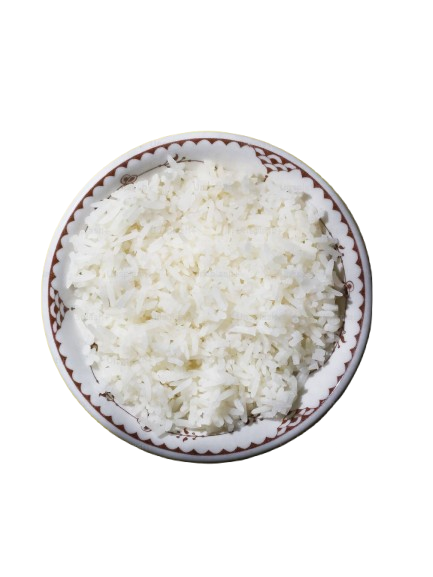
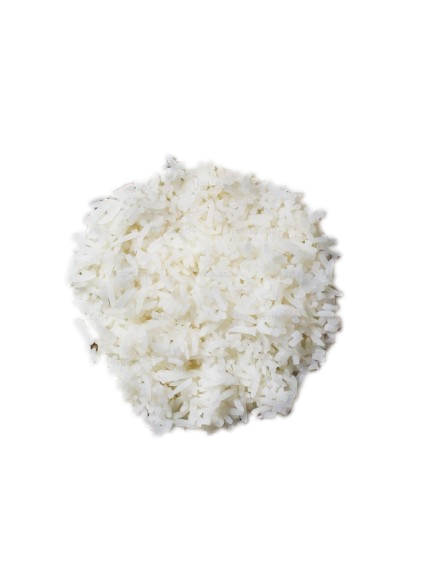
customise screen

Changed region(s): [[0.0901, 0.2184, 0.8707, 0.8111]]

diff --git a/components/customizeThali/ThaliItems.tsx b/components/customizeThali/ThaliItems.tsx
@@ -10,27 +10,27 @@ const thalis = [
   {
     title: 'Rice',
     cost: '10.00',
-    url: 'https://images.unsplash.com/photo-1504674900247-0877df9cc836?q=75&w=2070&auto=format&fit=crop&ixlib=rb-4.0.3&ixid=M3wxMjA3fDB8MHxwaG90by1wYWdlfHx8fGVufDB8fHx8fA%3D%3D',
+    url: 'https://media.gettyimages.com/id/1173266401/photo/rice-cooked-rice-steamed-rice-on-bowl.jpg?s=1024x1024&w=gi&k=20&c=dGvi6TsXkRDS0cKjwmAbt0T7VY-C7V5t683l3xYBmHk=',
   },
   {
     title: 'Dal',
     cost: '8.00',
-    url: 'https://images.unsplash.com/photo-1511690656952-34342bb7c2f2?q=80&w=1964&auto=format&fit=crop&ixlib=rb-4.0.3&ixid=M3wxMjA3fDB8MHxwaG90by1wYWdlfHx8fGVufDB8fHx8fA%3D%3D',
+    url: 'https://media.gettyimages.com/id/95977300/photo/many-lentil-daal.jpg?s=1024x1024&w=gi&k=20&c=DO3z_pUtgRQKl2k8ntev0kR6HlyFwFmphuyZcKGwL50=',
   },
   {
     title: 'Roti',
     cost: '12.00',
-    url: 'https://images.unsplash.com/photo-1600891964599-f61ba0e24092?q=80&w=2070&auto=format&fit=crop&ixlib=rb-4.0.3&ixid=M3wxMjA3fDB8MHxwaG90by1wYWdlfHx8fGVufDB8fHx8fA%3D%3D',
+    url: 'https://media.gettyimages.com/id/1334104847/photo/homemade-indian-roti-or-chapati-indian-bread.jpg?s=1024x1024&w=gi&k=20&c=MN3tdYOYl2avq53Y8hfh_pcQb8fEa1__uXT9faeVznU=',
   },
   {
     title: 'Mix Veg',
     cost: '13.00',
-    url: 'https://images.unsplash.com/photo-1668665771757-4d42737d295a?q=80&w=2080&auto=format&fit=crop&ixlib=rb-4.0.3&ixid=M3wxMjA3fDB8MHxwaG90by1wYWdlfHx8fGVufDB8fHx8fA%3D%3D',
+    url: 'https://i0.wp.com/www.blissofcooking.com/wp-content/uploads/2020/08/Easy-Mix-Vegetables-EOP.jpg?resize=1024%2C683&ssl=1',
   },
   {
     title: 'Panner Butter Masala Thali with Roti', 
     cost: '13.00',
-    url: 'https://images.unsplash.com/photo-1504674900247-0877df9cc836?q=75&w=2070&auto=format&fit=crop&ixlib=rb-4.0.3&ixid=M3wxMjA3fDB8MHxwaG90by1wYWdlfHx8fGVufDB8fHx8fA%3D%3D',
+    url: 'https://imgs.search.brave.com/zokFzOhSiCrW4U9-fYm4dNn-q3dopKq9rigZf63SGOg/rs:fit:860:0:0:0/g:ce/aHR0cHM6Ly90My5m/dGNkbi5uZXQvanBn/LzA3LzY0Lzc3Lzgw/LzM2MF9GXzc2NDc3/ODA3M19TVzNtM1Q3/OTQ0WUtySmtTOVFW/TkxPTmYxUWxzc2Jp/Mi5qcGc',
   },
 ];
 
@@ -38,22 +38,22 @@ const Starters = [
   {
     title: 'Samosa',
     cost: '10.00',
-    url: 'https://images.unsplash.com/photo-1504674900247-0877df9cc836?q=75&w=2070&auto=format&fit=crop&ixlib=rb-4.0.3&ixid=M3wxMjA3fDB8MHxwaG90by1wYWdlfHx8fGVufDB8fHx8fA%3D%3D',
+    url: 'https://media.gettyimages.com/id/1317460663/photo/close-up-of-fried-food-on-table-west-chester-pennsylvania-united-states-usa.jpg?s=1024x1024&w=gi&k=20&c=AySJkJqK__DBkYoBXIhOZlPbS8pWQHhdrIDHMa8a2Zg=',
   },
   {
     title: 'Pakora',
     cost: '8.00',
-    url: 'https://images.unsplash.com/photo-1511690656952-34342bb7c2f2?q=80&w=1964&auto=format&fit=crop&ixlib=rb-4.0.3&ixid=M3wxMjA3fDB8MHxwaG90by1wYWdlfHx8fGVufDB8fHx8fA%3D%3D',
+    url: 'https://media.gettyimages.com/id/2153418999/photo/vegetable-pakoda.webp?s=1024x1024&w=gi&k=20&c=cyJ0pwDYtumrd6kCS33hZCUsEuDMCQiUSszjHI2jEeQ=',
   },
   {
     title: 'Aloo Tikki',
     cost: '12.00',
-    url: 'https://images.unsplash.com/photo-1600891964599-f61ba0e24092?q=80&w=2070&auto=format&fit=crop&ixlib=rb-4.0.3&ixid=M3wxMjA3fDB8MHxwaG90by1wYWdlfHx8fGVufDB8fHx8fA%3D%3D',
+    url: 'https://media.gettyimages.com/id/1334105145/photo/pindi-chole-curry-served-hot-in-a-bowl-with-other-food-items.jpg?s=1024x1024&w=gi&k=20&c=kdkYAkr0zsGghGMFgWm_TBBvgDiJK8IM9x7pK19SHz4=',
   },
   {
     title: 'Paneer Tikka',
     cost: '13.00',
-    url: 'https://images.unsplash.com/photo-1668665771757-4d42737d295a?q=80&w=2080&auto=format&fit=crop&ixlib=rb-4.0.3&ixid=M3wxMjA3fDB8MHxwaG90by1wYWdlfHx8fGVufDB8fHx8fA%3D%3D',
+    url: 'https://media.gettyimages.com/id/1334104009/photo/paneer-tikka-with-mint-chutney-and-onion-rings.jpg?s=1024x1024&w=gi&k=20&c=GF9uV13mTa_170Kr1x6yypoc2ztvTBQsQmev0DZLlis=',
   },
 ];
 
@@ -61,22 +61,22 @@ const Desserts = [
   {
     title: 'Gulab Jamun',
     cost: '10.00',
-    url: 'https://images.unsplash.com/photo-1504674900247-0877df9cc836?q=75&w=2070&auto=format&fit=crop&ixlib=rb-4.0.3&ixid=M3wxMjA3fDB8MHxwaG90by1wYWdlfHx8fGVufDB8fHx8fA%3D%3D',
+    url: 'https://media.gettyimages.com/id/1337213309/photo/gulab-jamun.jpg?s=1024x1024&w=gi&k=20&c=f_SJDl-JzgqVtw9vWLTR9D1oLLL8xVZ2xvonu4sMu6k=',
   },
   {
     title: 'Kheer',
     cost: '8.00',
-    url: 'https://images.unsplash.com/photo-1511690656952-34342bb7c2f2?q=80&w=1964&auto=format&fit=crop&ixlib=rb-4.0.3&ixid=M3wxMjA3fDB8MHxwaG90by1wYWdlfHx8fGVufDB8fHx8fA%3D%3D',
+    url: 'https://media.gettyimages.com/id/1308121408/photo/kheer-indian-rice-pudding-india-dessert-food.jpg?s=1024x1024&w=gi&k=20&c=n6WQ-c7UIunfNDXPJH4CoAihVyjhz0gNrvOXDXqChME=',
   },
   {
     title: 'Ice Cream',
     cost: '12.00',
-    url: 'https://images.unsplash.com/photo-1600891964599-f61ba0e24092?q=80&w=2070&auto=format&fit=crop&ixlib=rb-4.0.3&ixid=M3wxMjA3fDB8MHxwaG90by1wYWdlfHx8fGVufDB8fHx8fA%3D%3D',
+    url: 'https://media.gettyimages.com/id/157472912/photo/ice-cream-composition-on-a-bowl.jpg?s=1024x1024&w=gi&k=20&c=iVT3ROh3y_tiS2bzFQOIKnFT5oXoqACl_5gzBvRJtTw=',
   },
   {
     title: 'Rasgulla',
     cost: '13.00',
-    url: 'https://images.unsplash.com/photo-1668665771757-4d42737d295a?q=80&w=2080&auto=format&fit=crop&ixlib=rb-4.0.3&ixid=M3wxMjA3fDB8MHxwaG90by1wYWdlfHx8fGVufDB8fHx8fA%3D%3D',
+    url: 'https://media.gettyimages.com/id/1369633008/photo/indian-sweet-or-dessert-close-up-of-sweet-food-in-plate-on-table-against-purple-background.jpg?s=612x612&w=gi&k=20&c=dJ00J86-Xqpj-n-2vXDQYcQtZW2jZ9nEAyvQFt_nu5I=',
   },
 ];
 

diff --git a/components/customizeThali/ThaliItemCard.tsx b/components/customizeThali/ThaliItemCard.tsx
@@ -1,6 +1,13 @@
 import { Minus, Plus } from 'lucide-react-native';
 import React from 'react';
-import { Image, Switch, Text, TouchableOpacity, View } from 'react-native';
+import {
+  Image,
+  Switch,
+  Text,
+  TouchableOpacity,
+  View,
+  Pressable,
+} from 'react-native';
 
 const ThaliItemCard = ({
   Title,
@@ -23,19 +30,20 @@ const ThaliItemCard = ({
 }) => {
   return (
     <TouchableOpacity
-      className={`flex-row items-center justify-between gap-5 bg-white rounded-2xl shadow-md w-full h-[148px] py-4 px-4 my-2 mx-auto ${
+      className={`flex-row items-center justify-between gap-4 bg-white rounded-2xl shadow-md w-full h-[148px] py-4 px-4 my-2 mx-auto ${
         isSelected ? 'border border-[#FC913A]' : ''
       }`}
-      activeOpacity={0.8}
+      activeOpacity={0.9}
       onPress={onToggle}
     >
-      <View className="w-32 h-32 bg-gray-200 rounded-full">
+      <View className="w-32 h-32 bg-gray-200 rounded-full overflow-hidden">
         <Image
           source={{ uri: Url }}
-          style={{ width: '100%', height: '100%', borderRadius: 100 }}
+          style={{ width: '100%', height: '100%' }}
           resizeMode="cover"
         />
       </View>
+
       <View className="flex-1 flex-col justify-center items-start h-full">
         <Text
           className="text-[16px] font-bold"
@@ -44,9 +52,13 @@ const ThaliItemCard = ({
         >
           {Title}
         </Text>
-        <Text className="text-lg font-semibold text-gray-500 mt-1">${Cost}</Text>
+        <Text className="text-lg font-semibold text-gray-500 mt-1">
+          ${Cost}
+        </Text>
       </View>
+
       <View className="w-[1px] h-[70%] bg-gray-200" />
+
       <View className="flex flex-col justify-between items-center h-full gap-8">
         <Switch
           trackColor={{ false: '#e0e0e0', true: '#FFCDA4' }}
@@ -55,18 +67,42 @@ const ThaliItemCard = ({
           ios_backgroundColor="#e0e0e0"
           value={isSelected}
         />
+
         <View
-          className={`flex-row ${isSelected ? 'bg-[#FC913A]' : 'bg-[#e0e0e0]'} rounded-full px-6 py-3 items-center gap-3`}
+          className={`flex-row ${
+            isSelected ? 'bg-[#FC913A]' : 'bg-[#e0e0e0]'
+          } rounded-full px-6 py-3 items-center gap-4`}
         >
-          <TouchableOpacity onPress={onDecrement} disabled={!isSelected}>
-            <Minus size={16} color="white" />
-          </TouchableOpacity>
+          {/* Decrement Button */}
+          <Pressable
+            onPress={onDecrement}
+            disabled={!isSelected || quantity <= 0}
+            hitSlop={10}
+            style={({ pressed }) => ({
+              opacity: pressed || !isSelected ? 0.6 : 1,
+              padding: 4,
+            })}
+          >
+            <Minus size={18} color="white" />
+          </Pressable>
+
+          {/* Quantity Text */}
           <Text className="text-white text-md font-bold">
             {quantity < 10 ? `0${quantity}` : quantity}
           </Text>
-          <TouchableOpacity onPress={onIncrement} disabled={!isSelected}>
-            <Plus size={16} color="white" />
-          </TouchableOpacity>
+
+          {/* Increment Button */}
+          <Pressable
+            onPress={onIncrement}
+            disabled={!isSelected}
+            hitSlop={10}
+            style={({ pressed }) => ({
+              opacity: pressed || !isSelected ? 0.6 : 1,
+              padding: 4,
+            })}
+          >
+            <Plus size={18} color="white" />
+          </Pressable>
         </View>
       </View>
     </TouchableOpacity>

diff --git a/components/customizeThali/Thali.tsx b/components/customizeThali/Thali.tsx
@@ -3,17 +3,39 @@ import { View, Image } from 'react-native';
 
 const Thali = () => {
   return (
-    <View className="w-[350px] h-[300px] mx-auto relative">
-      <Image
-        source={require('../../assets/images/thali.png')}
-        style={{ width: '100%', height: '100%'}}
-      />
-      <Image
-        source={require('../../assets/images/rice.png')}
-        style={{ width: '100%', height: '100%'}}
-        className='absolute top-0 left-0 translate-y-10 translate-x-3 z-10 scale-[0.4]'
-      />
-    </View>
+    <>
+      <View className="w-[350px] h-[300px] mx-auto relative">
+        <Image
+          source={require('../../assets/images/thali.png')}
+          style={{ width: '100%', height: '100%' }}
+        />
+        <Image
+          source={require('../../assets/images/rice.png')}
+          style={{ width: '100%', height: '100%' }}
+          className='absolute top-0 left-0 translate-y-11 translate-x-6 z-10 scale-[0.6]'
+        />
+        <Image
+          source={require('../../assets/images/roti.png')}
+          style={{ width: '100%', height: '100%' }}
+          className='absolute top-0 left-0 translate-y-11 translate-x-28 z-10 scale-[0.6] rotate-[230deg]'
+        />
+        <Image
+          source={require('../../assets/images/dal.png')}
+          style={{ width: '100%', height: '100%' }}
+          className='absolute top-0 left-0 translate-y-24 -translate-x-[105px] z-10 scale-[0.25]'
+        />
+        <Image
+          source={require('../../assets/images/mixveg.png')}
+          style={{ width: '100%', height: '100%' }}
+          className='absolute top-0 left-0 -translate-x-[105px] z-10 scale-y-[0.25] scale-x-[0.22]'
+        />
+        <Image
+          source={require('../../assets/images/paneer.png')}
+          style={{ width: '100%', height: '100%' }}
+          className='absolute top-0 left-0 -translate-x-[44px] -translate-y-[82px] z-10 scale-y-[0.29] scale-x-[0.26]'
+        />
+      </View>
+    </>
   );
 };
 
